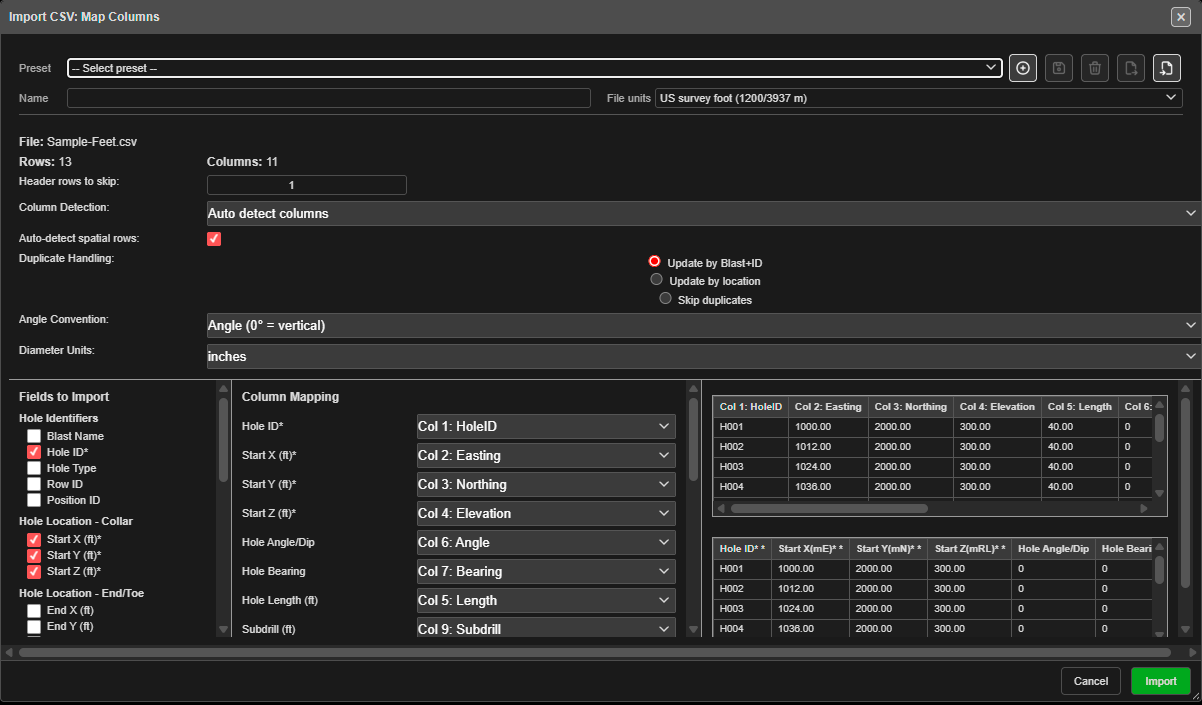
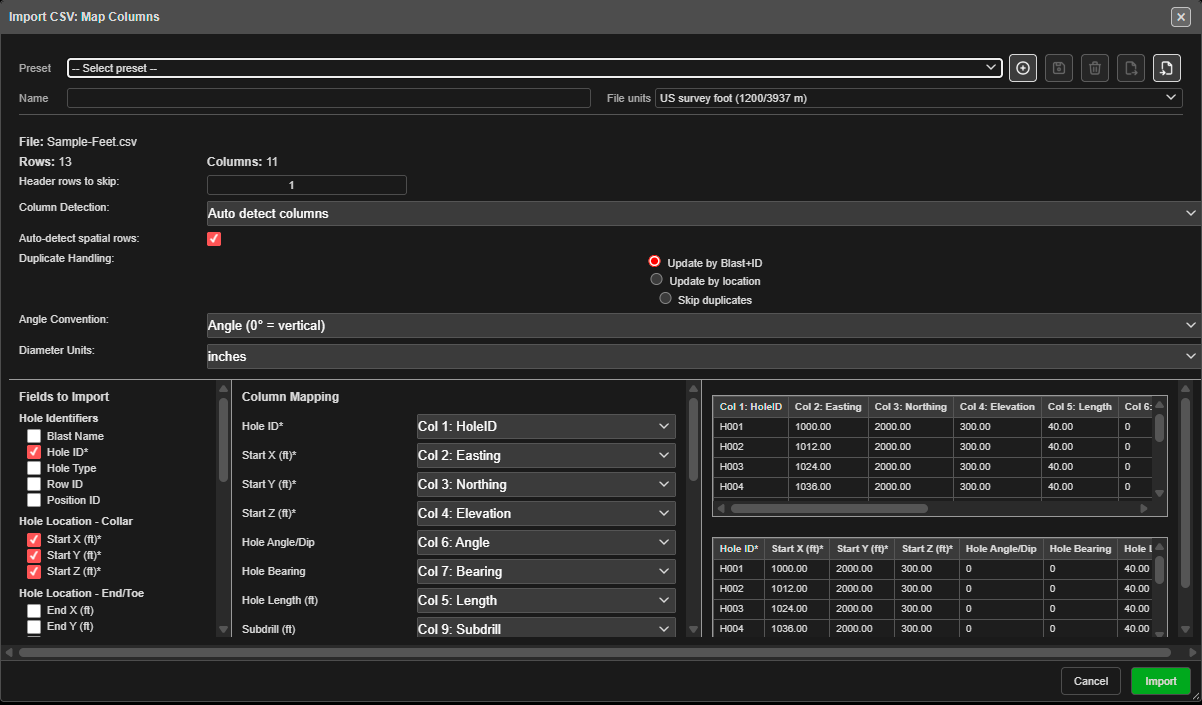
CSV import: File units screenshot shows the relabelled preview headers; Custom CSV Export opens with your last-used columns (Kirra 1.1.37.140)
The import screenshot is retaken with Kirra 1.1.37.140's fix (the Mapped Data Preview headers read
"Start X (ft)*"; the same made-up holes). One line on the export page: the dialog opens with the
columns and options from the last export.

Claude-Session: https://claude.ai/code/session_01KXyttiTM4WxNzK8WiB7ABC

Changed region(s): [[0.6464, 0.7489, 0.9542, 0.905]]

diff --git a/exporting/csv-export.md b/exporting/csv-export.md
@@ -85,6 +85,8 @@ The writer key for this preset is **`blasthole-csv-actual`**.
 
 The Custom CSV export — accessed from the **Blasts** tab in the Export dialog — is the escape hatch when you need a non-Kirra column layout. It opens the **Custom CSV Export — Select Columns** dialog.
 
+The dialog opens with the columns and options from your last export, so check them before you export for a different system.
+
 ![Custom CSV Export — Select Columns dialog](../screenshots/CustomCSVExport.png)
 *Left: field picker grouped by category. Right: column order (drag to reorder). Bottom: custom text fields and Export button.*
 
